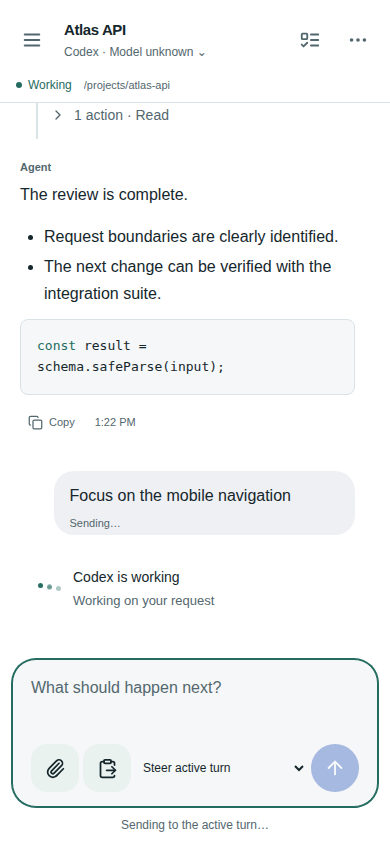
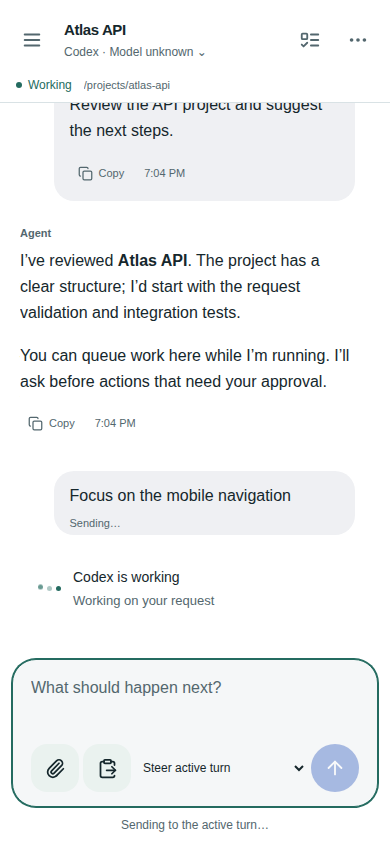
Preserve editable web drafts after definite dispatch rejection

diff --git a/apps/web/src/App.tsx b/apps/web/src/App.tsx
@@ -77,7 +77,7 @@ import {
   useAttachments,
   SentAttachment,
 } from './attachments.tsx';
-import { api, Connection } from '@harnessrc/client-sdk';
+import { api, ApiError, Connection } from '@harnessrc/client-sdk';
 import type { SessionView, Event, Interaction, Task } from '@harnessrc/protocol';
 import { Status, IconButton, Empty } from '@harnessrc/ui';
 type AgentPlan = { steps: { text: string; status: string }[]; text: string; updatedAt: string };
@@ -830,8 +830,15 @@ function Conversation({
     },
     onError: (_error, submitted) => {
       if (submitted.mode !== 'queue') {
-        outgoing.finish(submitted.key, 'uncertain');
-        setNotice('Delivery was not confirmed. Your message is preserved above.');
+        if (_error instanceof ApiError && [400, 401, 403, 413, 422, 429].includes(_error.status)) {
+          outgoing.dismiss(submitted.key);
+          setDraft((current) => current || submitted.prompt);
+          submission.current = undefined;
+          setNotice(_error.message);
+        } else {
+          outgoing.finish(submitted.key, 'uncertain');
+          setNotice('Delivery was not confirmed. Your message is preserved above.');
+        }
       } else
         setNotice(
           'Your draft is preserved. Check the queue before retrying if delivery is uncertain.',

diff --git a/tests/e2e/mobile.spec.ts b/tests/e2e/mobile.spec.ts
@@ -2650,3 +2650,25 @@ test('long-press provider swap chooses model and permissions and retains the exa
   await sheet.getByRole('button', { name: 'Return to conversation' }).click();
   await expect(sheet).toHaveCount(0);
 });
+
+test('definite send rejection restores draft without an uncertain delivery bubble', async ({
+  page,
+}) => {
+  await page.setViewportSize({ width: 390, height: 844 });
+  await pair(page);
+  await page.locator('button.session-row').filter({ hasText: 'Atlas API' }).click();
+  await page.route('**/api/sessions/*/messages', (route) =>
+    route.fulfill({
+      status: 422,
+      json: { error: 'The agent is not ready. Your draft was not sent.' },
+    }),
+  );
+  const draft = page.getByLabel('Instruction', { exact: true });
+  await draft.fill('Preserve this rejected instruction');
+  await page.getByRole('button', { name: /^(Send message|Steer active turn)$/ }).click();
+  await expect(draft).toHaveText('Preserve this rejected instruction');
+  await expect(page.locator('.outgoing-message')).toHaveCount(0);
+  await expect(
+    page.getByText('The agent is not ready. Your draft was not sent.', { exact: true }).first(),
+  ).toBeVisible();
+});

diff --git a/docs/CLIENT_PARITY.md b/docs/CLIENT_PARITY.md
@@ -6,30 +6,30 @@ Both clients are first-class Relay clients. A user-facing feature or fix must be
 
 “Implemented” below describes code coverage, not a claim of physical-device or every-harness verification. All control operations require gateway capabilities and the correct ownership mode.
 
-| Workflow | Web | Android APK | Evidence / gap |
-| --- | --- | --- | --- |
-| Session search, harness filter, profile/model/CWD, saved sessions | Implemented | Implemented | App.tsx / RelayApp.kt, Protocol.kt |
-| Recency-first session list (last opened or agent activity) | Implemented | Implemented | Client-local open timestamps; pinned sessions remain above the chronological list |
-| Rename, pin, archive, supported turn interruption | Implemented | Implemented | SessionActions / Screens.kt |
-| Start session, folder selection, DSH profile, model/custom model | Implemented | Implemented | NewSession.tsx / LaunchScreen |
-| Send, Steer, explicit Queue | Implemented | Implemented | Gateway messages API is authoritative |
-| Outgoing chat bubble remains until native transcript echo | Implemented | Implemented | A gateway-accepted receipt alone no longer hides the message |
-| Appearance theme and accent palette | Implemented | Implemented | Both have system/light/dark and persistent teal, blue, violet, and amber accents |
-| Uncertain delivery recovery | Retains card, Restore draft / Dismiss | Durable original-key Retry safely | Gap: web does not yet provide the equivalent original-key retry control; Restore draft must not be described as safe retry |
-| Questions, approvals, stale request handling | Implemented | Implemented | Same interaction API; native request_user_input supported on verified CLI Codex; other async formats and CLI approvals remain limited |
-| Queue edit, cancel, pause/resume | Implemented | Implemented | App.tsx / QueueScreen |
-| Reorder pending tasks | Implemented | Missing | Add native reorder controls against the existing gateway route |
-| Model and session permissions | Implemented | Implemented | Capability gated; confirm permission changes |
-| Restart exact conversation with another provider | Implemented | Implemented (0.1.18+) | Long-press → Swap provider; local Claude/Codex only; see PROVIDER_SWAP.md |
-| File/image upload, previews, download | Implemented | Implemented | Native keyboard image insertion is Android-specific; browser permission/platform restrictions remain |
-| File saves survive disappearing message rows | Browser-managed | App-root picker/ViewModel (0.1.18+) | Fetch and validate before opening picker; physical system-picker check outstanding |
-| Dictation, cleanup, editable result | Implemented | Implemented | Shared gateway speech service; never auto-send |
-| Streaming, earlier history, reader scroll preservation | Implemented | Implemented | Browser and native regressions are separate |
-| Native task-notice formatting and source timestamps | Implemented | Implemented | Shared TS behavior has a separate Kotlin implementation: test both for format changes |
-| Tailnet access | Implemented | Implemented | Gateway authorization remains mandatory |
-| Off-tailnet device pairing | Implemented | Missing | Android currently fails closed outside authorized tailnet access |
-| Notification preferences | Browser notifications while open | Missing | Neither client implements reliable closed-app push |
-| Installation/update | PWA install and APK download | Signed APK installation | A web deployment cannot update installed Kotlin code |
+| Workflow                                                          | Web                                   | Android APK                         | Evidence / gap                                                                                                                        |
+| ----------------------------------------------------------------- | ------------------------------------- | ----------------------------------- | ------------------------------------------------------------------------------------------------------------------------------------- |
+| Session search, harness filter, profile/model/CWD, saved sessions | Implemented                           | Implemented                         | App.tsx / RelayApp.kt, Protocol.kt                                                                                                    |
+| Recency-first session list (last opened or agent activity)        | Implemented                           | Implemented                         | Client-local open timestamps; pinned sessions remain above the chronological list                                                     |
+| Rename, pin, archive, supported turn interruption                 | Implemented                           | Implemented                         | SessionActions / Screens.kt                                                                                                           |
+| Start session, folder selection, DSH profile, model/custom model  | Implemented                           | Implemented                         | NewSession.tsx / LaunchScreen                                                                                                         |
+| Send, Steer, explicit Queue                                       | Implemented                           | Implemented                         | Gateway messages API is authoritative                                                                                                 |
+| Outgoing chat bubble remains until native transcript echo         | Implemented                           | Implemented                         | A gateway-accepted receipt alone no longer hides the message                                                                          |
+| Appearance theme and accent palette                               | Implemented                           | Implemented                         | Both have system/light/dark and persistent teal, blue, violet, and amber accents                                                      |
+| Uncertain delivery recovery                                       | Retains card, Restore draft / Dismiss | Durable original-key Retry safely   | Gap: web does not yet provide the equivalent original-key retry control; Restore draft must not be described as safe retry            |
+| Questions, approvals, stale request handling                      | Implemented                           | Implemented                         | Same interaction API; native request_user_input supported on verified CLI Codex; other async formats and CLI approvals remain limited |
+| Queue edit, cancel, pause/resume                                  | Implemented                           | Implemented                         | App.tsx / QueueScreen                                                                                                                 |
+| Reorder pending tasks                                             | Implemented                           | Missing                             | Add native reorder controls against the existing gateway route                                                                        |
+| Model and session permissions                                     | Implemented                           | Implemented                         | Capability gated; confirm permission changes                                                                                          |
+| Restart exact conversation with another provider                  | Implemented                           | Implemented (0.1.18+)               | Long-press → Swap provider; local Claude/Codex only; see PROVIDER_SWAP.md                                                             |
+| File/image upload, previews, download                             | Implemented                           | Implemented                         | Native keyboard image insertion is Android-specific; browser permission/platform restrictions remain                                  |
+| File saves survive disappearing message rows                      | Browser-managed                       | App-root picker/ViewModel (0.1.18+) | Fetch and validate before opening picker; physical system-picker check outstanding                                                    |
+| Dictation, cleanup, editable result                               | Implemented                           | Implemented                         | Shared gateway speech service; never auto-send                                                                                        |
+| Streaming, earlier history, reader scroll preservation            | Implemented                           | Implemented                         | Browser and native regressions are separate                                                                                           |
+| Native task-notice formatting and source timestamps               | Implemented                           | Implemented                         | Shared TS behavior has a separate Kotlin implementation: test both for format changes                                                 |
+| Tailnet access                                                    | Implemented                           | Implemented                         | Gateway authorization remains mandatory                                                                                               |
+| Off-tailnet device pairing                                        | Implemented                           | Missing                             | Android currently fails closed outside authorized tailnet access                                                                      |
+| Notification preferences                                          | Browser notifications while open      | Missing                             | Neither client implements reliable closed-app push                                                                                    |
+| Installation/update                                               | PWA install and APK download          | Signed APK installation             | A web deployment cannot update installed Kotlin code                                                                                  |
 
 ## Change and release contract
 
@@ -196,3 +196,9 @@ Navigation detail: Android child Back returns to the child catalog; the web chil
 ### Claude AskUserQuestion (Android 0.1.17)
 
 Web and Android recognize choice-batch metadata on Claude's exact hook interactions, preserving descriptions, multi-select and custom replies. The shared session view reports blocking native interactions as blocked, rather than working. Web regression coverage verifies options and exact batch responses; native unit/lint/build and real Claude headless hook roundtrip pass. Older APKs receive a compatible question list and their legacy answer format remains valid; 0.1.17 adds the full multi-select batch UI. Real terminal concurrent answering and physical phone rendering remain separate checks.
+
+### Definite pre-dispatch rejection and uncertain delivery recovery (Android 0.1.20)
+
+Both clients keep drafts editable when the gateway positively rejects a message before native dispatch (including HTTP 422 for idle-to-busy races). This differs from transport uncertainty, which retains the original request identity and must never automatically resend. Web restores an empty composer and removes the rejected optimistic bubble; Android preserves its durable draft. The gateway marks dispatch attempted only after queue and attachment preflight pass.
+
+Android 0.1.20 adds **Keep draft / clear notice** for an uncertain receipt. Its confirmation explains that the agent may already have received the message. This only dismisses local delivery state, preserves the draft, and sends nothing. Web already provides separate **Restore draft** and **Dismiss** actions. Physical-phone confirmation and draft recovery remain unverified; unit/lint/release builds do not establish device behavior.

diff --git a/docs/ANDROID.md b/docs/ANDROID.md
@@ -163,3 +163,5 @@ Install the signed update over your existing app to retain drafts and settings. 
 DSH file links save through the document picker; MP4/video and audio have native playback, seek and video fullscreen controls. No filesystem link launches Relay's homepage. Passive media API responses are session-authorized and support byte ranges. See OPENUI.md for exact format, limits and physical-device checks.
 
 Version 0.1.16 adds **Agent tasks → Sub-agent conversations** for linked Claude and Codex native histories. These child chats are view-only: there is no Send/Steer composer. DSH's native `todo_write` checklist now appears under Agent tasks through the shared gateway fix.
+
[1 lines of base64/hex data omitted]
